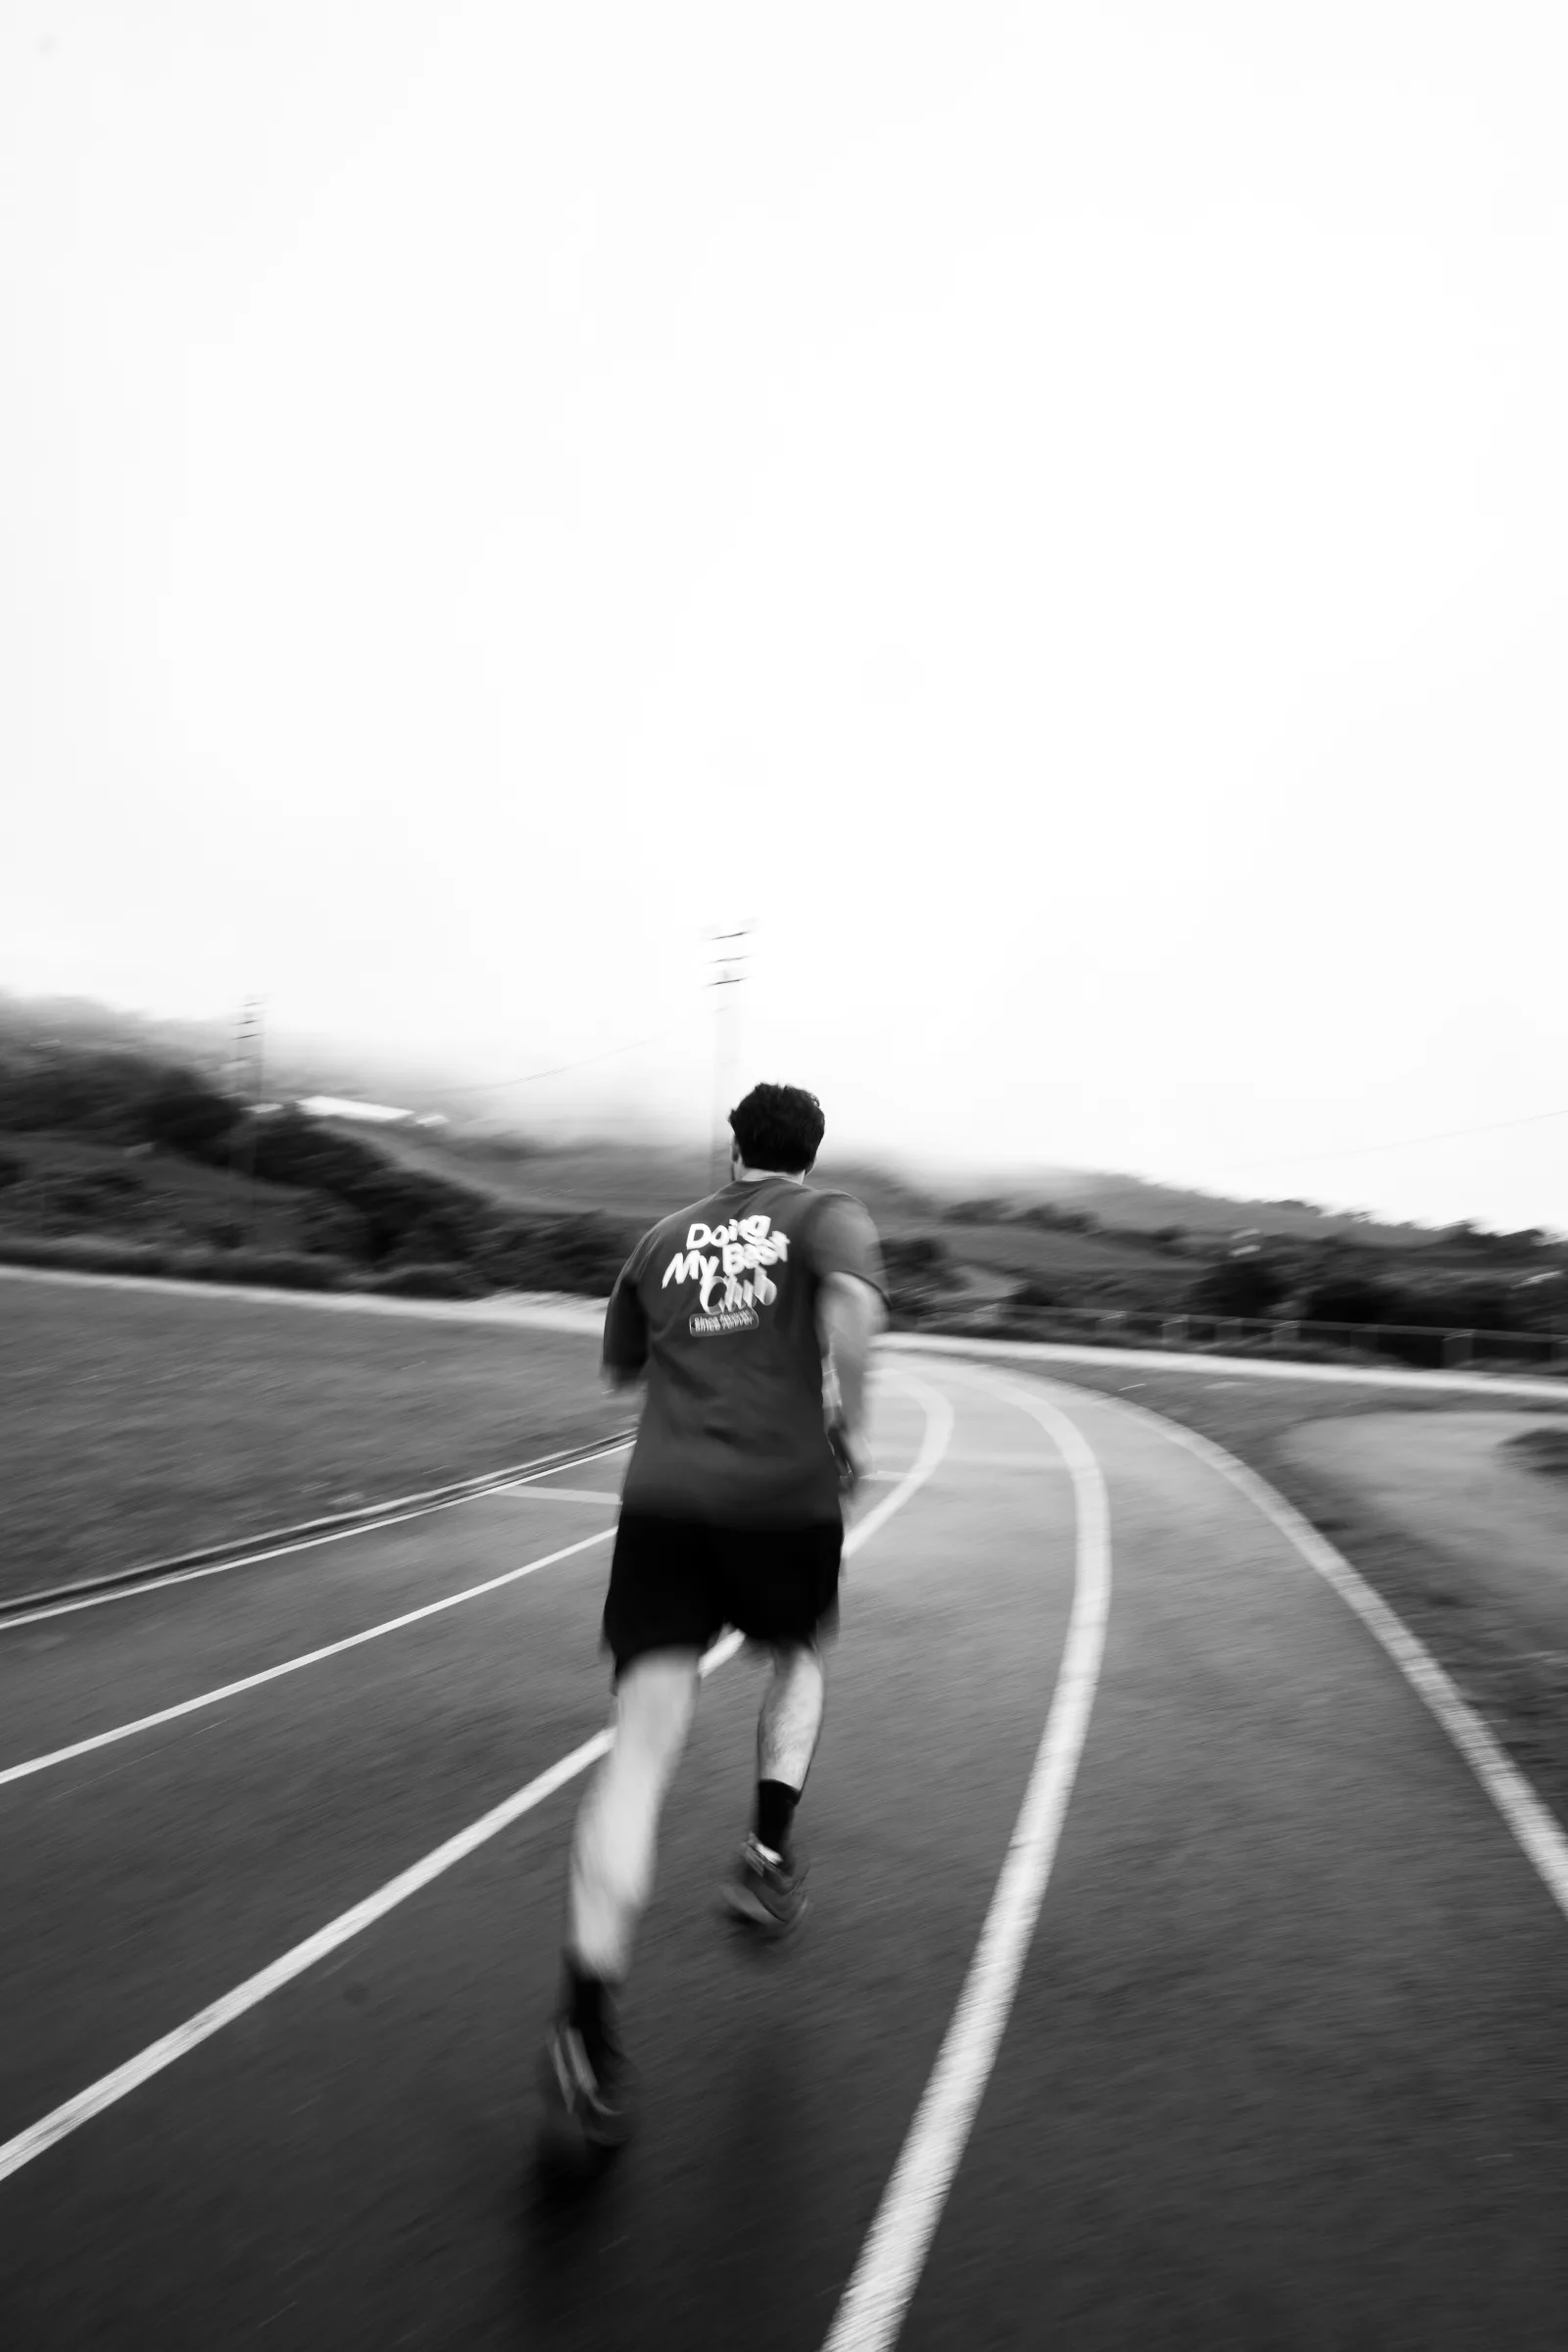
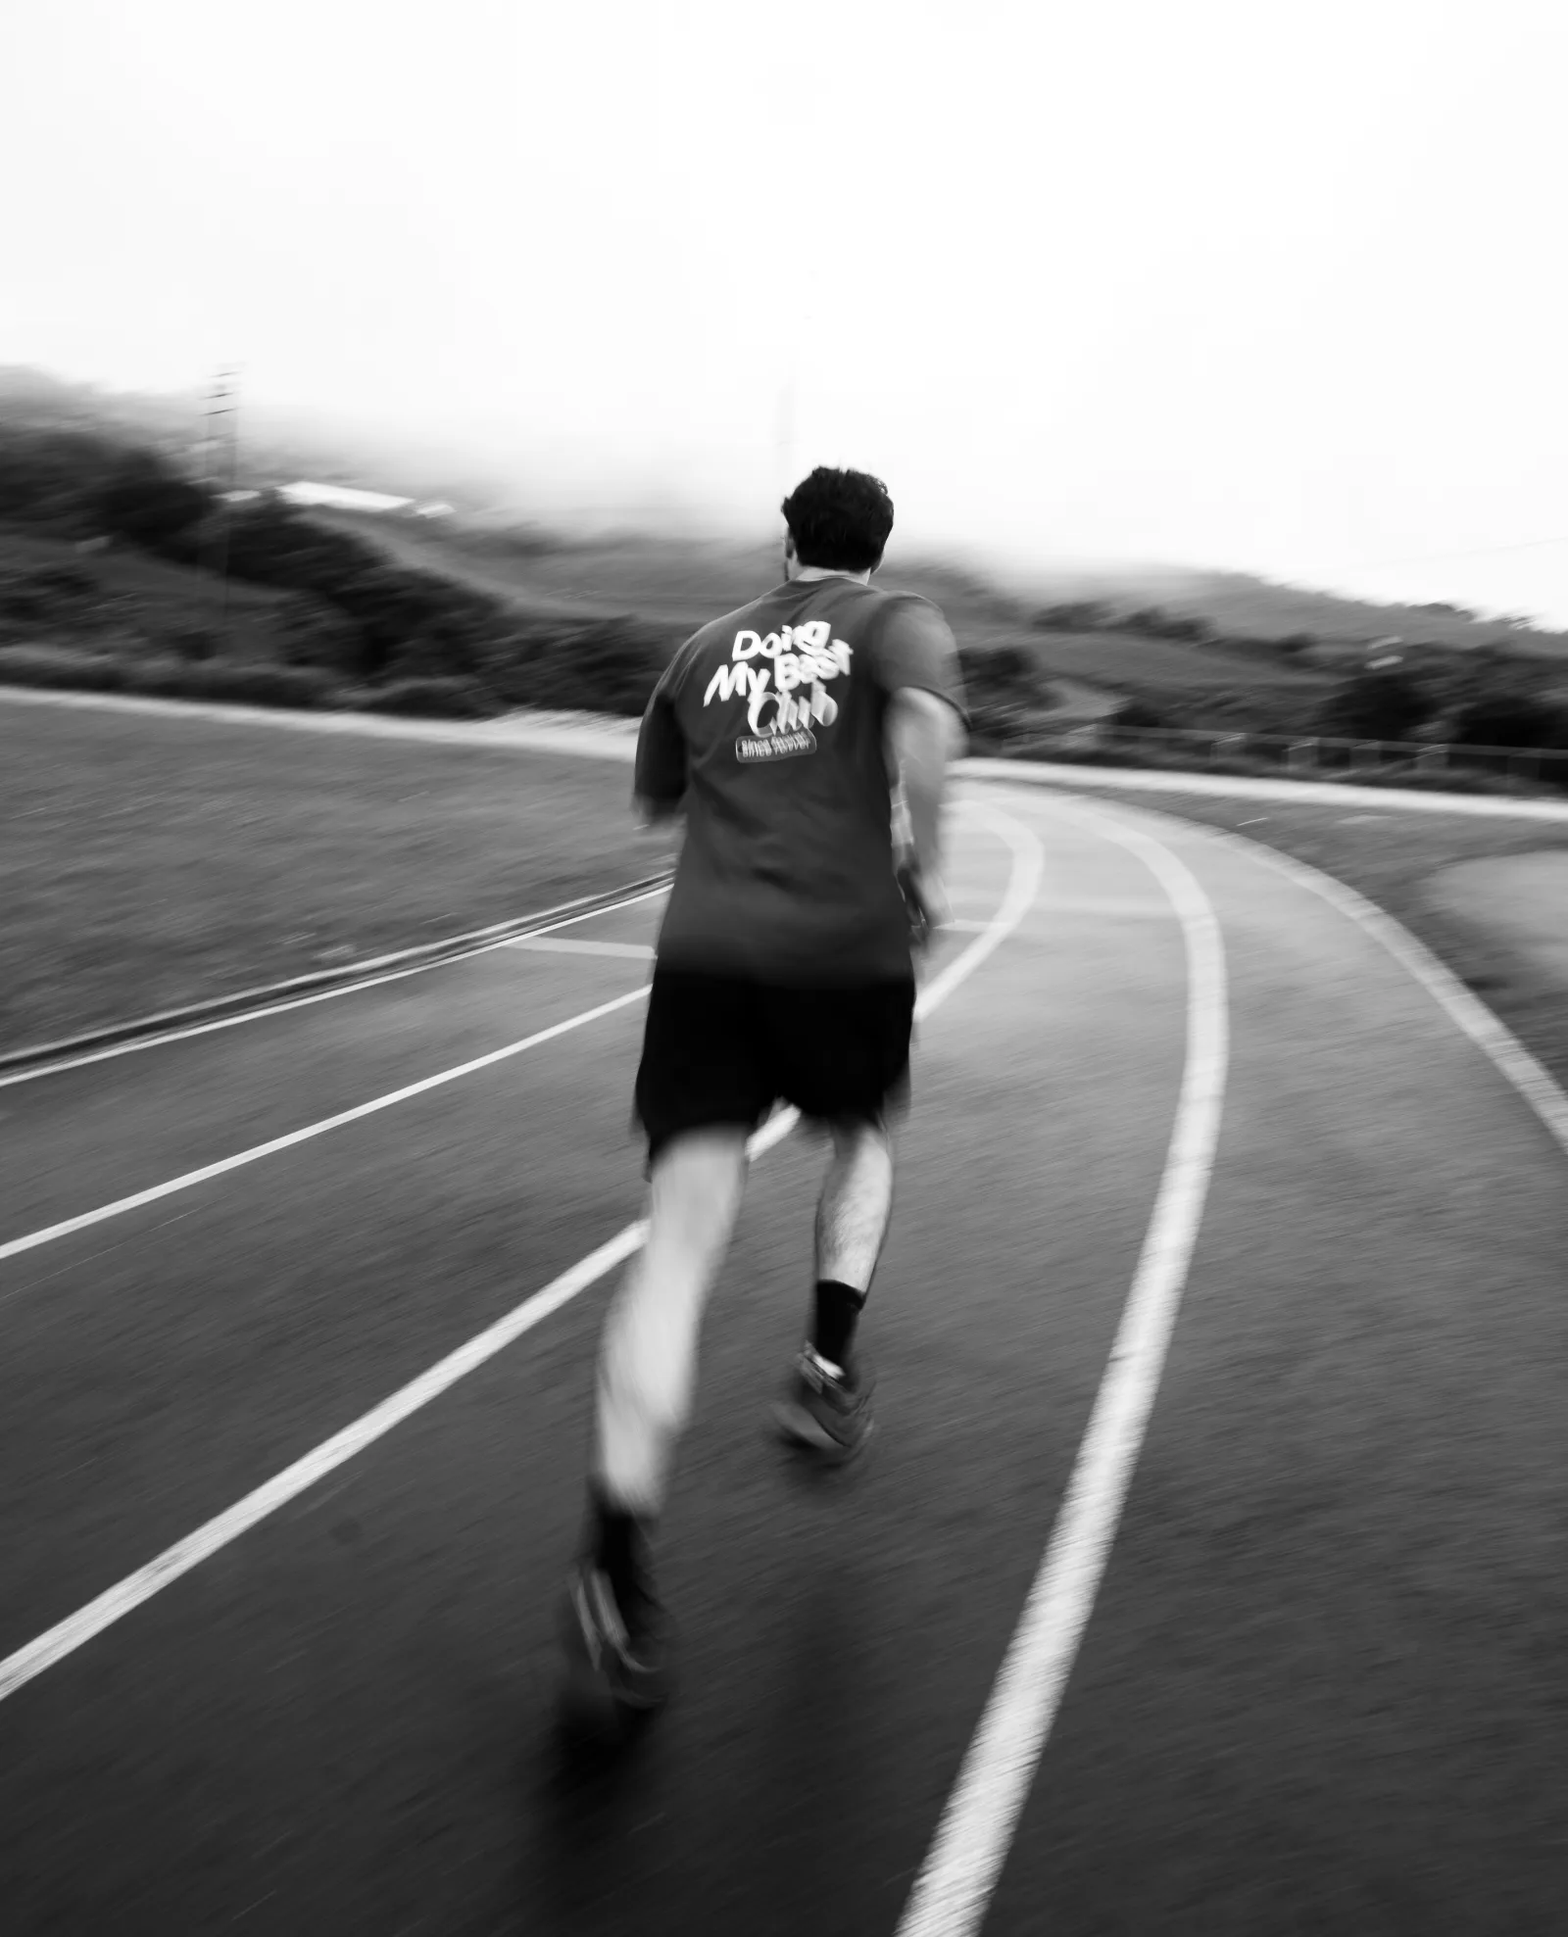
Replace MOVA campaign photos

diff --git a/index.html b/index.html
@@ -538,6 +538,10 @@
       object-position: center;
       transition: transform .8s var(--ease);
     }
+
+    .sports-slide--pink img {
+      object-position: 50% 32%;
+    }
     .sports-slide:hover img,
     .portrait-slide:hover img,
     .product-slide:hover img { transform: scale(1.04); }
@@ -991,12 +995,12 @@
         <article class="sports-carousel reveal d1" data-cat="brands" data-group="photo" data-mova-sports>
           <div class="sports-viewport" tabindex="0" aria-label="MOVA sportswear campaign photography carousel" data-i18n-aria-label="sports.carouselAria">
             <div class="sports-track">
-              <figure class="sports-slide"><img src="assets/brands/mova-sports/mova-sports-01.webp" alt="Runner wearing a red MOVA shirt on an outdoor track" loading="lazy" decoding="async" /></figure>
-              <figure class="sports-slide"><img src="assets/brands/mova-sports/mova-sports-02.webp" alt="Black-and-white motion photograph of a runner wearing MOVA sportswear" loading="lazy" decoding="async" /></figure>
-              <figure class="sports-slide"><img src="assets/brands/mova-sports/mova-sports-03.webp" alt="Athlete checking her watch in a gray MOVA shirt on a running track" loading="lazy" decoding="async" /></figure>
-              <figure class="sports-slide"><img src="assets/brands/mova-sports/mova-sports-04.webp" alt="Athlete in a gray MOVA shirt surrounded by a motion-blurred landscape" loading="lazy" decoding="async" /></figure>
-              <figure class="sports-slide"><img src="assets/brands/mova-sports/mova-sports-05.webp" alt="Runner wearing a pink MOVA shirt outdoors" loading="lazy" decoding="async" /></figure>
-              <figure class="sports-slide"><img src="assets/brands/mova-sports/mova-sports-06.webp" alt="Two athletes in MOVA sportswear preparing beside an outdoor track" loading="lazy" decoding="async" /></figure>
+              <figure class="sports-slide"><img src="assets/brands/mova-sports/mova-sports-01.webp?v=2" alt="Runner wearing a red MOVA shirt on an outdoor track" loading="lazy" decoding="async" /></figure>
+              <figure class="sports-slide"><img src="assets/brands/mova-sports/mova-sports-02.webp?v=2" alt="Black-and-white motion photograph of a runner wearing MOVA sportswear" loading="lazy" decoding="async" /></figure>
+              <figure class="sports-slide"><img src="assets/brands/mova-sports/mova-sports-03.webp?v=2" alt="Athlete checking her watch in a gray MOVA shirt on a running track" loading="lazy" decoding="async" /></figure>
+              <figure class="sports-slide"><img src="assets/brands/mova-sports/mova-sports-04.webp?v=2" alt="Athlete in a gray MOVA shirt surrounded by a motion-blurred landscape" loading="lazy" decoding="async" /></figure>
+              <figure class="sports-slide sports-slide--pink"><img src="assets/brands/mova-sports/mova-sports-05.webp?v=2" alt="Runner wearing a pink MOVA shirt outdoors" loading="lazy" decoding="async" /></figure>
+              <figure class="sports-slide"><img src="assets/brands/mova-sports/mova-sports-06.webp?v=2" alt="Two athletes in MOVA sportswear preparing beside an outdoor track" loading="lazy" decoding="async" /></figure>
             </div>
           </div>
           <div class="sports-footer">

diff --git a/tests/site.spec.ts b/tests/site.spec.ts
@@ -24,6 +24,7 @@ test('presents the MOVA sportswear campaign as a six-image brand carousel', asyn
   const campaign = page.locator('[data-mova-sports]');
   await expect(campaign).toHaveAttribute('data-cat', 'brands');
   await expect(campaign.locator('.sports-slide')).toHaveCount(6);
+  await expect(campaign.locator('.sports-slide--pink img')).toHaveCSS('object-position', '50% 32%');
   await expect(campaign.getByRole('heading')).toContainText('MOVA');
 });
 

diff --git a/README.md b/README.md
@@ -8,7 +8,7 @@ Source for [santiagomadriz.com](https://santiagomadriz.com), my bilingual photog
 
 - Responsive photo and video portfolio
 - MOVA “Made to Move” brand reel with a local optimized preview and source link
-- Six-image MOVA sportswear campaign carousel with responsive, optimized WebP photography
+- Six-image MOVA sportswear campaign carousel with responsive, optimized WebP photography and art-directed portrait framing
 - English and Spanish interface with local language preference
 - Keyboard-accessible work filters and media carousels
 - Reduced-motion behavior
